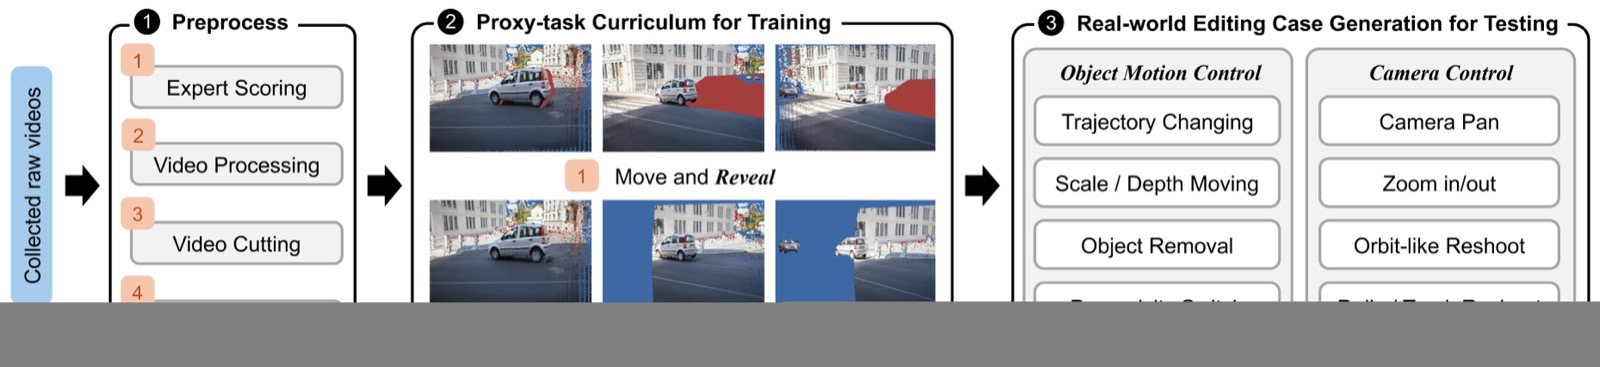
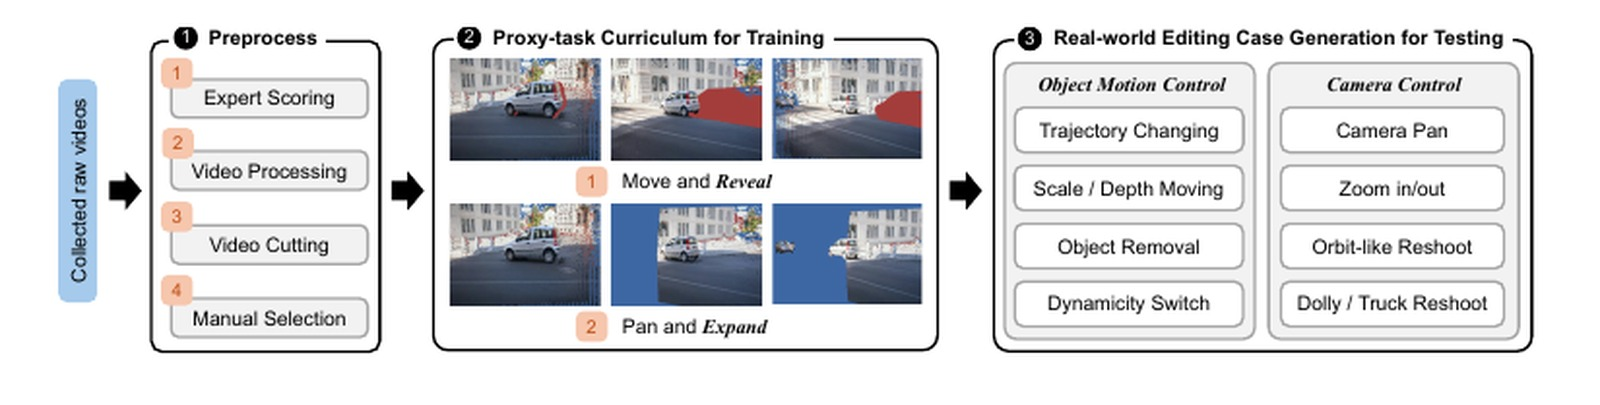
Replace damaged PREBench project image

diff --git a/projects/index.html b/projects/index.html
@@ -30,7 +30,7 @@
         <h2>Datasets</h2>
         <div class="project-grid">
           <article class="project"><img class="project-image" src="../assets/img/projects/facevid-1k.png" alt="DH-FaceVid-1K dataset overview" /><div class="project-copy"><span>ICCV</span><h3>FaceVid-1K</h3><p>Large-scale high-quality multiracial human face video dataset for evaluating and improving image-to-video and text-to-video face generation methods.</p><a href="https://luna-ai-lab.github.io/DH-FaceVid-1K/">Project page</a></div></article>
-          <article class="project"><img class="project-image" src="../assets/img/projects/prebench.jpg" alt="PREBench construction pipeline" /><div class="project-copy"><span>Benchmark</span><h3>PREBench</h3><p>Diagnostic benchmark for faithful 4D video editing, evaluating preservation, reveal completion, and scene expansion with region-aware metrics.</p><a href="https://ricepastem.github.io/PREX-Open/">Project page</a></div></article>
+          <article class="project"><img class="project-image" src="../assets/img/projects/prebench.jpg?v=20260526-clean" alt="PREBench construction pipeline" /><div class="project-copy"><span>Benchmark</span><h3>PREBench</h3><p>Diagnostic benchmark for faithful 4D video editing, evaluating preservation, reveal completion, and scene expansion with region-aware metrics.</p><a href="https://ricepastem.github.io/PREX-Open/">Project page</a></div></article>
           <article class="project"><img class="project-image" src="../assets/img/projects/video-llm-scaling.svg" alt="Video LLM item-level scaling overview" /><div class="project-copy"><span>Artifact</span><h3>Video LLM item-level scaling labels</h3><p>Reusable per-item predictions, derived labels, and cached evaluation pipeline for auditing Video LLM scaling behavior and adaptive inference policies.</p><a href="https://github.com/sunwenzhang1996/video-mme-scalegrid">Code</a></div></article>
         </div>
       </section>
